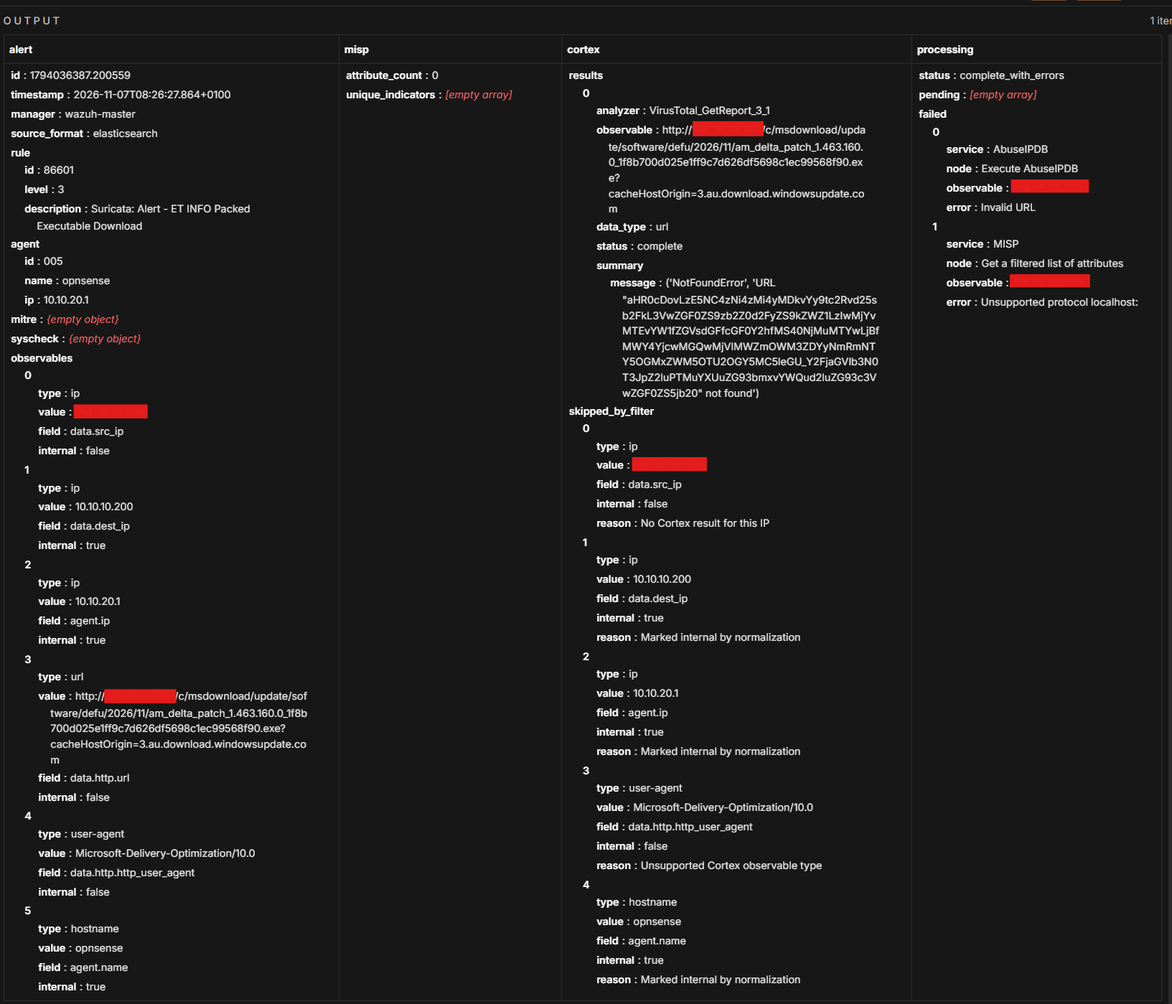
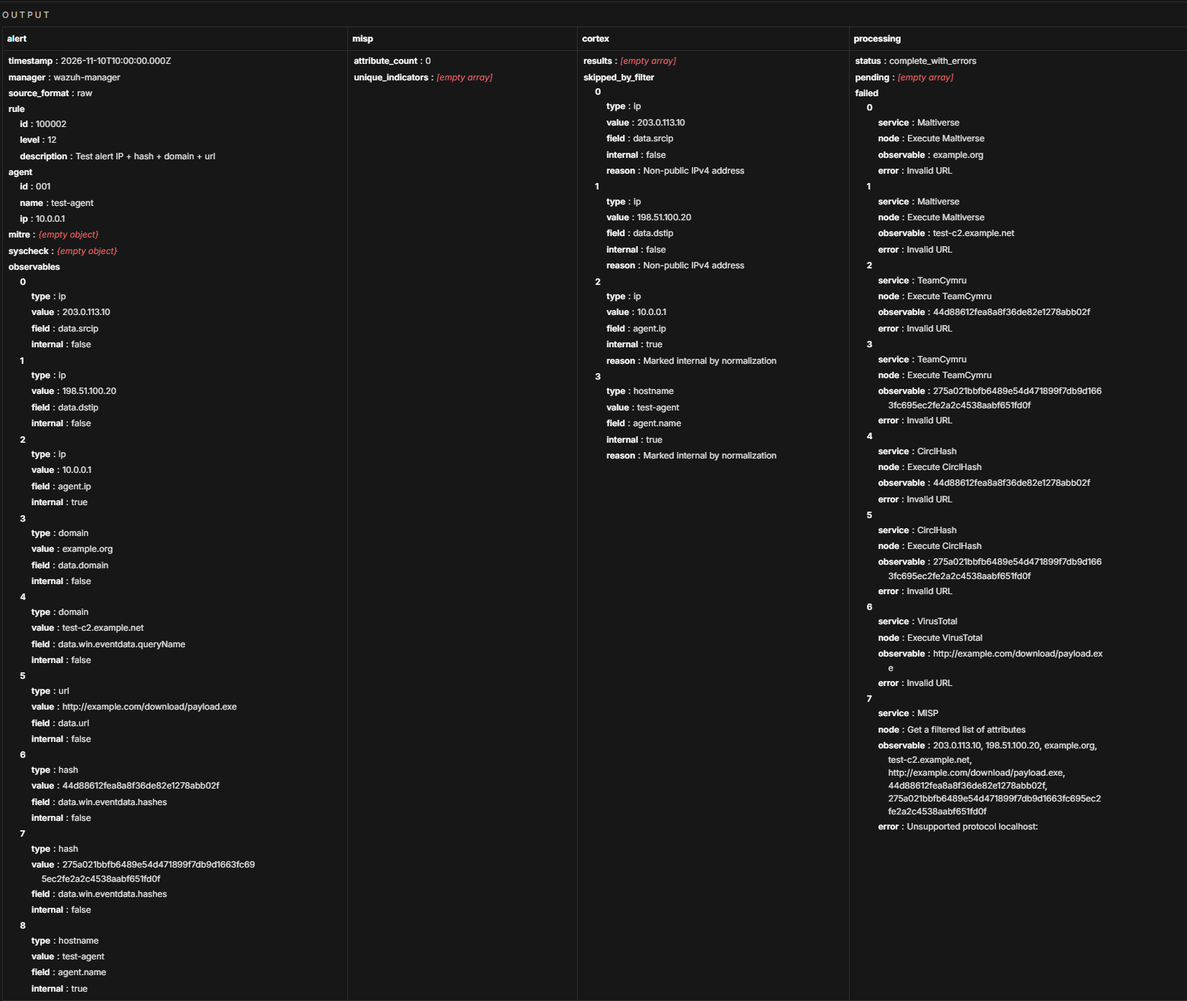
docs: update failure handling section in adr and runbook

diff --git a/docs/runbooks/n8n-triage.md b/docs/runbooks/n8n-triage.md
@@ -492,138 +492,172 @@ The workflow returned five Cortex result entries, `processing.status: complete`,
 
 **Owner:** @p4chatek
 
-**What it does:** Ensures that a service being down does not stop the workflow or make the alert look complete when enrichment is missing.
+**What it does:** Makes sure that a MISP or Cortex service that is down does not stop the workflow, and that every lookup that failed is recorded in the alert, so the alert never looks cleaner than it is.
 
-### Node: Retry On Fail (all external nodes)
+![Workflow overview with Error Formatters](../images/n8n/72-workflow-overview.png)
 
-**What it does:** Retries a failed node automatically before triggering the error output.
+*Figure. The workflow with one Error Formatter per service, connected to the error outputs of the MISP and Cortex nodes.*
+
+#### Node: Retry On Fail and On Error (all MISP and Cortex nodes)
+
+**What it does:** Retries a failed request a few times. If the last try also fails, sends the failed items to the error output instead of stopping the workflow.
 
 **How to build it:**
 
-1. Open each node listed below.
+1. Open each node listed in the table below.
 2. Go to the **Settings** tab.
-3. Enable **Retry On Fail**.
-4. Set **Max. Tries** and **Wait Between Tries** as shown in the table.
-
-| Node | Max Tries | Wait Between Tries |
-|---|---|---|
-| Execute Maltiverse | 3 | 2 000 ms |
-| Get a report Maltiverse | 3 | 3 000 ms |
-| Execute AbuseIPDB | 3 | 2 000 ms |
-| Get a report AbuseIPDB | 3 | 3 000 ms |
-| Execute TeamCymru | 3 | 2 000 ms |
-| Get a report TeamCymru | 3 | 3 000 ms |
-| Execute CirclHash | 3 | 2 000 ms |
-| Get a report CirclHash | 3 | 3 000 ms |
-| Execute VirusTotal | 3 | 2 000 ms |
-| Get a report UnshortenLink | 3 | 3 000 ms |
-| Get a filtered list of attributes (MISP) | 5 | 2 000 ms |
-| Create an alert (TheHive) | 5 | 5 000 ms |
+3. Turn on **Retry On Fail** and set **Max. Tries** and **Wait Between Tries** as shown in the table.
+4. Set **On Error** to **Continue (using error output)**. A second, red output appears on the node.
 
 ![Retry On Fail and On Error settings](../images/n8n/72-execute-node-settings-retry-on-error.png)
 
-### Node: Error Formatter (one per service)
+*Figure. Retry On Fail and On Error settings on an Execute node.*
 
-**What it does:** Catches the error output of a failed Cortex or MISP node and formats it as `{service, node, observable, error, timestamp}` for the Merge node.
+| Node | Max. Tries | Wait Between Tries | On Error |
+|---|---|---|---|
+| Execute Maltiverse | 3 | 2 000 ms | Continue (using error output) |
+| Get a report Maltiverse | 3 | 3 000 ms | Continue (using error output) |
+| Execute AbuseIPDB | 3 | 2 000 ms | Continue (using error output) |
+| Get a report AbuseIPDB | 3 | 3 000 ms | Continue (using error output) |
+| Execute TeamCymru | 3 | 2 000 ms | Continue (using error output) |
+| Get a report TeamCymru | 3 | 3 000 ms | Continue (using error output) |
+| Execute CirclHash | 3 | 2 000 ms | Continue (using error output) |
+| Get a report CirclHash | 3 | 3 000 ms | Continue (using error output) |
+| Execute VirusTotal | 3 | 2 000 ms | Continue (using error output) |
+| Get a report UnshortenLink | 3 | 3 000 ms | Continue (using error output) |
+| Get a filtered list of attributes (MISP) | 5 | 2 000 ms | Continue (using error output) |
+
+**How to test it:** Run the test in [How to test the stage](#how-to-test-the-stage). The execution must finish, and the failed node must show items on its red error output.
+
+#### Node: Get a report … (Job ID)
+
+**What it does:** Reads the Cortex job ID from the item that arrives at the node, so polling works for any number of observables and any number of polling rounds.
 
 **How to build it:**
 
-1. On each Cortex and MISP node, go to **Settings** → **On Error** → select **Continue (using error output)**.
-2. A red error port appears on the node.
-3. Connect both the Execute and Get a report error ports of each service to one shared **Code** node named `Error Formatter — <service>`.
-4. Set **Language** to `JavaScript`.
-5. Paste the code below, changing only `SERVICE_NAME`.
+1. Open each `Get a report …` node.
+2. Set **Job ID** to `{{ $json._id ?? $json.id }}`.
+3. Do not use `{{ $('Execute …').item.json._id }}`. That lookup fails when a service gets more than one observable, or on the second polling round.
 
-```js
-const SERVICE_NAME = 'AbuseIPDB'; // change per service
+| Setting | Value |
+|---|---|
+| Job ID | `{{ $json._id ?? $json.id }}` |
 
-const input = $input.first().json;
-const observable = typeof input?.primary_observable === 'string'
-  ? input.primary_observable
-  : input?.observables?.find(o => o.internal === false)?.data ?? '';
+**How to test it:** Not covered by the stage test, because in that test no Cortex job is created. With working credentials, an alert with two hashes must return a Team Cymru and a CIRCL result for both, without a `Paired item data … is unavailable` error.
 
-return [{
-  json: {
-    service:    SERVICE_NAME,
-    node:       $prevNode.name,
-    observable: observable,
-    error:      input?.error?.message ?? input?.error ?? 'unknown',
-    timestamp:  new Date().toISOString(),
-  }
-}];
-```
+#### Node: Error Formatter - \<service\> (one per service)
 
-6. Connect the Error Formatter output to the serwisowy Merge node (e.g. `MergeAbuseIPBD`) as an additional input in **Append** mode.
-7. For MISP, connect to the main **Merge** node before Summary Enrichments.
+**What it does:** Receives the failed items of one service and turns each of them into one record: `{service, node, observable, error, timestamp}`. The records go to the main Merge and from there to `Summary Enrichments`.
+
+**How to build it:**
+
+1. Add a **Code** node for each service and name it `Error Formatter - <service>`, for example `Error Formatter - CirclHash`.
+2. Set **Mode** to **Run Once for All Items** and **Language** to **JavaScript**.
+3. Connect the red error output of the service's `Execute …` node **and** of its `Get a report …` node to this one formatter.
+4. Paste the code:
+   - Cortex services: [`error-formatter-cortex.js`](../../soar/n8n/nodes/error-formatter-cortex.js). Change only the five constants at the top, using the table below.
+   - MISP: [`error-formatter-misp.js`](../../soar/n8n/nodes/error-formatter-misp.js). No changes are needed.
+5. Connect the formatter output to the service's Merge node as an extra input (`Append` mode). For MISP, connect it to the main `Merge` before `Summary Enrichments`.
 
 ![Error Formatter code](../images/n8n/72-error-formatter-code.png)
 
-![Workflow overview showing Error Formatters](../images/n8n/72-workflow-overview.png)
+*Figure. Error Formatter - CirclHash with its constants and the Run Once for All Items mode.*
+
+| Formatter | `SERVICE_NAME` | `EXECUTE_NODE` | `REPORT_NODE` | `SOURCE_NODES` | `TYPES` |
+|---|---|---|---|---|---|
+| Error Formatter - Maltiverse | `Maltiverse` | `Execute Maltiverse` | `Get a report Maltiverse` | `Normalize Alert`, `Dedupe Cortex Observables` | `domain` |
+| Error Formatter - AbuseIPDB | `AbuseIPDB` | `Execute AbuseIPDB` | `Get a report AbuseIPDB` | `Filter Cortex-Eligible IPs` | `ip` |
+| Error Formatter - TeamCymru | `TeamCymru` | `Execute TeamCymru` | `Get a report TeamCymru` | `Normalize Alert`, `Dedupe Cortex Observables` | `hash` |
+| Error Formatter - CirclHash | `CirclHash` | `Execute CirclHash` | `Get a report CirclHash` | `Normalize Alert`, `Dedupe Cortex Observables` | `hash` |
+| Error Formatter - VirusTotal | `VirusTotal` | `Execute VirusTotal` | `Get a report UnshortenLink` | `Normalize Alert`, `Dedupe Cortex Observables` | `url` |
+| Error Formatter - MISP | `MISP` | - | - | `Normalize Alert`, `Dedupe Cortex Observables` | all types |
+
+`TYPES` must match the `router of types` rule that sends observables to that branch. `SERVICE_NAME` must contain the name the Score stage uses for the service (`abuseipdb`, `maltiverse`, `teamcymru`, `circl`, `virustotal`, `misp`, case-insensitive).
+
+**How it finds the observable:** an error item contains only the error message. The formatter compares values instead:
+
+- error from `Execute …`: observables of `TYPES` read from `SOURCE_NODES`, minus those for which a job was created;
+- error from `Get a report …`: jobs created by `Execute …`, minus jobs that already finished or are still in the current polling round;
+- MISP: one record that lists every observable of the alert.
+
+**How to test it:** Run the test in [How to test the stage](#how-to-test-the-stage). Each failed observable must appear as its own record with the correct value. `observable` must never be `unknown`.
+
+#### Node: Summary Enrichments (failure records)
+
+**What it does:** Adds every Error Formatter record to `processing.failed` and sets `processing.status` to `complete_with_errors` when at least one lookup failed. An observable whose lookup failed is not listed in `cortex.skipped_by_filter`, so it cannot look like "checked, nothing found".
+
+**How to build it:** Use the current implementation in [`summary-enrichments.js`](../../soar/n8n/nodes/summary-enrichments.js). The relevant parts are:
+
+- `errorRows`: every merged item with a `service` and an `error` field;
+- `failedValues`: the observables of failed Cortex lookups, used to keep them out of `skipped_by_filter`;
+- `failed`: failed Cortex jobs plus all `errorRows`.
 
 | Setting | Value |
 |---|---|
-| Node type | `Code` |
-| Language | `JavaScript` |
 | Mode | `Run Once for All Items` |
-| On Error (source node) | `Continue (using error output)` |
+| Implementation | [`summary-enrichments.js`](../../soar/n8n/nodes/summary-enrichments.js) |
+| Output used by Score | `processing.failed`, `processing.pending`, `processing.status` |
 
-### Node: Summary Enrichments (failure handling addition)
+**How to test it:** See [How to test the stage](#how-to-test-the-stage).
 
-**What it does:** Reads error records from the Merge node and appends them to `processing.failed`. Sets `processing.status` to `complete_with_errors` when at least one service failed.
+#### How to test the stage
 
-**How to build it:**
+1. Create a Cortex credential and a MISP credential, both named `TEST FAILED`, with an invalid URL (for example `localhost:9999`, without `http://`) and any API key.
+2. Pin this test alert in the Webhook node. All values are safe to publish: the IPs are documentation ranges (RFC 5737), the domains are reserved (RFC 2606) and the hashes belong to the EICAR test file.
 
-Add this block to the existing Summary Enrichments code, after `const rows = $input.all()...`, before `return`:
+   ```json
+   [
+     {
+       "timestamp": "2026-11-10T10:00:00.000Z",
+       "rule": { "level": 12, "description": "Test alert IP + hash + domain + url", "id": "100002" },
+       "agent": { "id": "001", "name": "test-agent", "ip": "10.0.0.1" },
+       "manager": { "name": "wazuh-manager" },
+       "data": {
+         "srcip": "203.0.113.10",
+         "dstip": "198.51.100.20",
+         "url": "http://example.com/download/payload.exe",
+         "domain": "example.org",
+         "win": {
+           "eventdata": {
+             "hashes": "MD5=44d88612fea8a8f36de82e1278abb02f,SHA256=275a021bbfb6489e54d471899f7db9d1663fc695ec2fe2a2c4538aabf651fd0f",
+             "queryName": "test-c2.example.net"
+           }
+         }
+       }
+     }
+   ]
+   ```
 
-```js
-const errorRows = rows.filter(item => item.json?.service && item.json?.error !== undefined);
+3. Set the `TEST FAILED` credential on every Cortex `Execute …` node and on `Get a filtered list of attributes` (MISP).
+4. Run the workflow and open the output of `Summary Enrichments`.
+5. Put the original credentials back.
 
-const failed = [
-  ...cortexResults
-    .filter(result => result.status === 'failed')
-    .map(result => ({
-      analyzer: result.analyzer,
-      observable: result.observable,
-      status: result.status,
-    })),
-  ...errorRows.map(item => ({
-    service: item.json.service,
-    node: item.json.node,
-    observable: item.json.observable,
-    error: item.json.error,
-  })),
-];
-```
-
-### TheHive: Create an alert
-
-**What it does:** Uses Retry On Fail (5×) and Stop and Error. If all retries fail, the execution is marked as failed in n8n and is visible in the execution log.
-
-| Setting | Value |
+| Check | Expected result |
 |---|---|
-| Retry On Fail | ON |
-| Max Tries | 5 |
-| Wait Between Tries | 5 000 ms |
-| On Error | Stop Workflow |
+| Workflow | The execution finishes. No node stops it |
+| `processing.failed` | 8 records, one per observable: Maltiverse ×2 (both domains), TeamCymru ×2 and CirclHash ×2 (both hashes), VirusTotal ×1 (the URL) and MISP ×1 (all seven external observables). No `observable` is `unknown` |
+| `processing.status` | `complete_with_errors` |
+| `cortex.skipped_by_filter` | Only the two documentation-range IPs (`Non-public IPv4 address`) and the internal agent IP and hostname |
 
-**How to test it:**
-
-1. Create a credential `TEST FAILED` with an invalid URL for the service you want to test.
-2. Set that credential on the Execute node of one service.
-3. Run the workflow.
-4. Check that the workflow completed and that `processing.failed` contains a record for that service.
-5. Restore the original credential.
+The documentation-range IPs are correctly filtered out as `Non-public IPv4 address`, so this test does not reach AbuseIPDB.
 
 ![Summary Enrichments output with failed services](../images/n8n/72-summary-enrichments-output-failed.png)
+
+*Figure. Test result: eight records in `processing.failed` and `processing.status: complete_with_errors`.*
 
 **If it does not work:**
 
 | What you see | Cause | Fix |
 |---|---|---|
-| Workflow stops on a failed node | On Error is set to Stop Workflow instead of Continue | Change On Error to Continue (using error output) on that node |
-| `processing.failed` is empty despite a service failing | Error Formatter is not connected to the Merge node | Check the connection from Error Formatter to the serwisowy Merge |
-| `observable` is empty in the error record | `primary_observable` is not a string and no external observable is found | Check what fields are available in the error branch input |
-| Python syntax error in Error Formatter | Code node language is set to Python | Change Language to JavaScript in the node settings |
+| The workflow stops at a failed node | **On Error** is still `Stop Workflow` | Set **On Error** to **Continue (using error output)** on that node |
+| `processing.failed` is empty although a service failed | The Error Formatter is not connected to a Merge input, or the red error output is not connected to the formatter | Check both connections |
+| `Paired item data for item from node 'Get a report …' is unavailable` | The Job ID uses `$('Execute …').item`, which loses track with more than one observable or on a second polling round | Set Job ID to `{{ $json._id ?? $json.id }}` |
+| `observable` is `unknown` | A name in the formatter constants does not match the node name exactly, or `TYPES` does not match the router rule | Compare the constants with the node names, including spaces. A node named `Get a report  Maltiverse` (two spaces) is not found |
+| The MISP record shows `unknown` | The MISP formatter runs before `Dedupe Cortex Observables`, and the observables in `Normalize Alert` use `dataType` and `data` | Use the current [`error-formatter-misp.js`](../../soar/n8n/nodes/error-formatter-misp.js), which reads both formats |
+| Two different hashes get the same observable, usually the alert IP | An old formatter version reads `primary_observable`, which every item inherits from the alert | Use the current [`error-formatter-cortex.js`](../../soar/n8n/nodes/error-formatter-cortex.js) |
+| Cortex receives the text `json.data` instead of the observable | **Observable Type** and **Observable Value** contain the literal text `json.data` | Set them to `{{ $json.observables.dataType }}` and `{{ $json.observables.data }}` |
+| A failed IP is also listed in `skipped_by_filter` as `No Cortex result for this IP` | Old `Summary Enrichments` code | Use the current [`summary-enrichments.js`](../../soar/n8n/nodes/summary-enrichments.js) |
+| Python syntax error in the formatter | The Code node language is Python | Set **Language** to **JavaScript** |
 
 ## 8. TheHive
 

diff --git a/docs/decisions/0003-n8n-triage-workflow.md b/docs/decisions/0003-n8n-triage-workflow.md
@@ -207,50 +207,84 @@ The [n8n triage runbook](../runbooks/n8n-triage.md#4-misp-and-cortex) documents 
 
 #### Context
 
-External services (Cortex analyzers, MISP, TheHive) can be temporarily unavailable. Without error handling, a single failed node stops the entire workflow and the alert disappears without trace. The enrichment result looks complete even when a service was down.
+The MISP and Cortex stage calls six external services: MISP and five Cortex analyzers (Maltiverse, AbuseIPDB, Team Cymru MHR, CIRCL Hashlookup and VirusTotal). Any of them can be down, slow or misconfigured. By default, a failed n8n node stops the whole execution, so one broken service would stop the alert from reaching the analyst.
+
+Simply skipping the failed node is not enough either. The summary would then contain fewer results, with nothing saying why, and an alert whose lookups failed would look the same as an alert whose lookups found nothing.
+
+The stage was added to the `SOC - n8n E2E Skeleton` workflow on top of the MISP and Cortex branches from stage 4.
 
 #### Decision
 
-**Retry On Fail** is enabled on all nodes that call external services.
+**Retry before failing.** Every node that calls MISP or Cortex has **Retry On Fail** enabled:
 
-| Node | Max Tries | Wait Between Tries |
+| Node | Max. Tries | Wait Between Tries |
 |---|---|---|
-| Execute Maltiverse | 3 | 2 000 ms |
-| Get a report Maltiverse | 3 | 3 000 ms |
-| Execute AbuseIPDB | 3 | 2 000 ms |
-| Get a report AbuseIPDB | 3 | 3 000 ms |
-| Execute TeamCymru | 3 | 2 000 ms |
-| Get a report TeamCymru | 3 | 3 000 ms |
-| Execute CirclHash | 3 | 2 000 ms |
-| Get a report CirclHash | 3 | 3 000 ms |
-| Execute VirusTotal | 3 | 2 000 ms |
-| Get a report UnshortenLink | 3 | 3 000 ms |
+| Execute Maltiverse, Execute AbuseIPDB, Execute TeamCymru, Execute CirclHash, Execute VirusTotal | 3 | 2 000 ms |
+| Get a report Maltiverse, Get a report AbuseIPDB, Get a report TeamCymru, Get a report CirclHash, Get a report UnshortenLink | 3 | 3 000 ms |
 | Get a filtered list of attributes (MISP) | 5 | 2 000 ms |
-| Create an alert (TheHive) | 5 | 5 000 ms |
 
-![Workflow overview](../images/n8n/72-workflow-overview.png)
+**A failure goes to an error output.** The same nodes use **On Error → Continue (using error output)**. When the last retry fails, the failed items leave through the error output instead of stopping the workflow. The other services keep running and the alert still reaches the summary.
 
-**On Error → Continue (using error output)** is enabled on all Cortex and MISP nodes. When all retries are exhausted, the error port routes to an **Error Formatter** Code node instead of stopping the workflow. Each Error Formatter produces `{service, node, observable, error, timestamp}` and sends it to the final Merge node.
+**One Error Formatter per service.** The error outputs of the `Execute …` and `Get a report …` nodes of one service go to one Code node, `Error Formatter - <service>`, in **Run Once for All Items** mode. It writes one record per failed observable:
 
-![Retry On Fail and On Error settings](../images/n8n/72-execute-node-settings-retry-on-error.png)
+```json
+{ "service": "CirclHash", "node": "Execute CirclHash", "observable": "44d88612fea8a8f36de82e1278abb02f", "error": "Invalid URL", "timestamp": "2026-11-10T10:00:00.000Z" }
+```
 
-![Error Formatter code](../images/n8n/72-error-formatter-code.png)
+An error output item contains only the error message, not the observable. The formatter therefore works out which observables failed by comparing values:
 
-`Summary Enrichments` reads all items arriving at the main Merge. Items that contain a `service` and `error` field are appended to `processing.failed`. The `processing.status` field is set to `complete_with_errors` when at least one service failed.
+- an error from `Execute …`: the observables of the service's type that were sent to it, minus the observables for which Cortex created a job;
+- an error from `Get a report …`: the jobs created by `Execute …`, minus the jobs whose report was already finished or that are still in the current polling round;
+- MISP searches all observables of an alert in one query, so its single record lists all of them.
 
-**TheHive** (`Create an alert`) uses Retry On Fail (5×, 5 000 ms) and **Stop and Error**. A retry queue was considered and rejected - it would hide failures from the n8n execution dashboard.
+The formatter reads the sent observables from `Normalize Alert` and `Dedupe Cortex Observables`. For AbuseIPDB it reads `Filter Cortex-Eligible IPs`, because only IPs that pass that filter are sent. The code is in [`error-formatter-cortex.js`](../../soar/n8n/nodes/error-formatter-cortex.js) and [`error-formatter-misp.js`](../../soar/n8n/nodes/error-formatter-misp.js).
+
+**Get a report reads the job ID from the incoming item.** The Job ID field of every `Get a report …` node is `{{ $json._id ?? $json.id }}` instead of `{{ $('Execute …').item.json._id }}`.
+
+**The summary records the failure.** `Summary Enrichments` adds every Error Formatter record to `processing.failed` and sets `processing.status` to `complete_with_errors`. An observable whose lookup failed is not listed in `cortex.skipped_by_filter`. The code is in [`summary-enrichments.js`](../../soar/n8n/nodes/summary-enrichments.js).
+
+**Score treats a failure as missing data.** The Score stage counts every service in `processing.failed` as a service that did not answer. This lowers `scoring.coverage`, and below `min_coverage_for_fp` a low score becomes `needs_review` instead of a likely false positive. The scoring rules are recorded in stage 5.
 
 #### Rationale
 
-Routing errors to Merge instead of stopping the workflow ensures that a broken service produces a visible record rather than a silent gap. `processing.failed` gives downstream stages (Score, Decision) the information they need to avoid closing an alert as benign when enrichment was incomplete.
+**Retry first.** Short outages, such as a restarting container or a single timeout, are common and usually clear within seconds. A few short retries fix them without creating a failure record. The waits are kept short so that a service that is really down does not hold the alert for long.
 
-Stop and Error for TheHive was chosen over a retry queue because every undelivered alert must be visible in the n8n execution log. A queue would make the workflow appear healthy while alerts were lost.
+**Error output instead of Stop Workflow.** A failed analyzer does not make the results of the other services useless. Continuing keeps the alert moving and records the gap in the alert itself, where the analyst and the Score stage can see it.
+
+**One record per observable.** An alert can carry several observables of the same type, and one of them can fail while another succeeds. The analyst and the Score stage need to know exactly which indicator was not checked.
+
+**Comparing values instead of n8n item linking.** n8n's item linking (`$('node').item`, `itemMatching()`) could not find the original observable. The Cortex node does not keep item links when it processes more than one item, and the polling loop through the Wait node loses them as well. With one observable the lookup worked by chance. With two hashes it returned `unknown`, or the wrong observable. Comparing sent observables with created and finished jobs works for any number of observables and any number of polling rounds.
+
+**Job ID from `$json`.** The `.item` lookup failed for the same reason. On the second polling round, or with more than one observable, `Get a report` stopped with `Paired item data for item from node 'Get a report …' is unavailable`. The incoming item is always a Cortex job object that contains its `_id`, on the first round and on every later one.
+
+**A failed lookup is never listed as skipped.** Before this change, an IP whose AbuseIPDB lookup failed was also listed in `skipped_by_filter` with the reason `No Cortex result for this IP`. That reads as "checked, nothing found", which is exactly the false impression this stage has to prevent.
+
+**One formatter per service instead of one shared node.** Each formatter needs its own node names and observable types. Separate nodes also keep every error path visible on the canvas next to the service it belongs to.
 
 #### Verification
 
-Tested with dedicated broken credentials (`TEST FAILED`) on AbuseIPDB and MISP simultaneously. Both services failed, the workflow completed, and `processing.failed` contained two records - one for AbuseIPDB (`Invalid URL`) and one for MISP (`Unsupported protocol`). `processing.status` was `complete_with_errors`. The workflow did not stop.
+The stage was tested on 2026-11-10 with one synthetic alert, `100002`. It contains two documentation-range IPs, two domains, one URL and two hashes. All Cortex `Execute …` nodes and the MISP node used a test credential, `TEST FAILED`, with an invalid URL, so every lookup failed.
 
-![Summary Enrichments output with failed services](../images/n8n/72-summary-enrichments-output-failed.png)
+| Check | Verified result |
+|---|---|
+| Workflow | The execution completed and did not stop at any failed node |
+| `processing.failed` | Eight records, one per failed observable: Maltiverse for both domains, Team Cymru and CIRCL for both hashes, VirusTotal for the URL, and one MISP record listing all seven external observables. Each record had the correct observable value |
+| `processing.status` | `complete_with_errors` |
+| `cortex.results` | Empty, because no analyzer answered |
+| `cortex.skipped_by_filter` | Only observables that were deliberately not sent to Cortex: the two documentation-range IPs (`Non-public IPv4 address`) and the internal agent IP and hostname (`Marked internal by normalization`). No failed observable was listed there |
+
+This test does not cover: a failure in a `Get a report …` node, because no job was created; AbuseIPDB, because the documentation-range IPs are correctly filtered out before it; a real outage, because an invalid URL fails immediately instead of timing out; and the Score stage output for a failed run.
+
+Build and test instructions, screenshots and the test alert are in the [n8n triage runbook](../runbooks/n8n-triage.md#7-failure-handling).
+
+#### Follow-up
+
+- **Real outage:** repeat the test with a credential that points to an address where nothing listens, for example `http://127.0.0.1:9999`. The error should be a refused connection or a timeout, and the retries should add the configured delay before the record appears.
+- **Report step:** run the test with the real credential on `Execute TeamCymru` and `TEST FAILED` on `Get a report TeamCymru`. Expect two records with node `Get a report TeamCymru`, one for each hash.
+- **AbuseIPDB:** run the test with two real public IPs and `TEST FAILED` on `Execute AbuseIPDB`. Expect one record per IP, and neither IP in `skipped_by_filter`. Redact the IPs in any screenshot.
+- **Score:** run the test alert through the Score stage and confirm that every failed service is listed under `scoring.sources.failed`, `coverage` is below `min_coverage_for_fp` and the verdict is `needs_review`.
+- **Known issue, slow reports:** in one run, the Team Cymru result for one of two hashes appeared in neither `cortex.results` nor `processing.failed`. The likely cause is that its report needed another polling round and the final `Merge` had already passed its data on. This has to be investigated, because a lost result also makes an alert look cleaner than it is.
+- **Node names:** the Error Formatters find their nodes by name, so renaming a node requires updating the constants in the formatter. The VirusTotal report node is still named `Get a report UnshortenLink`. Renaming it to `Get a report VirusTotal` would match the analyzer it polls.
 
 ### 8. TheHive
 
